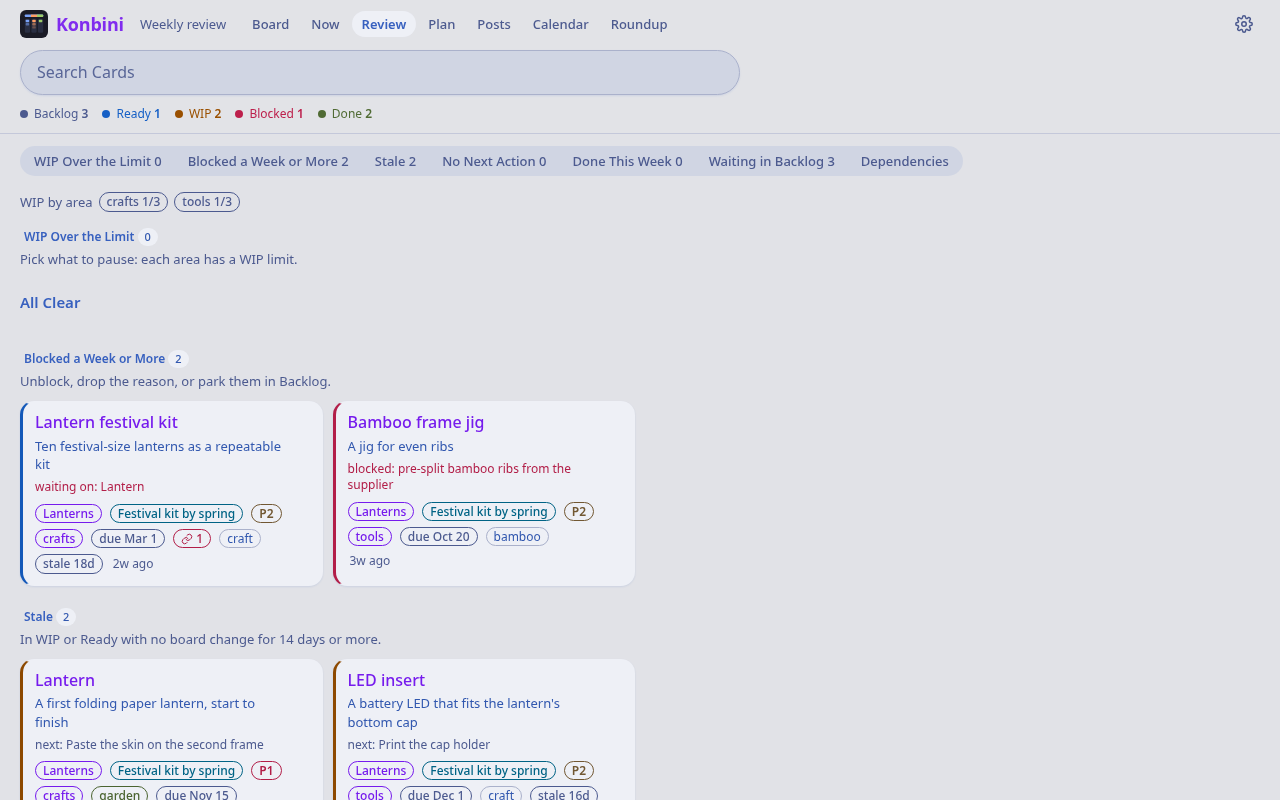
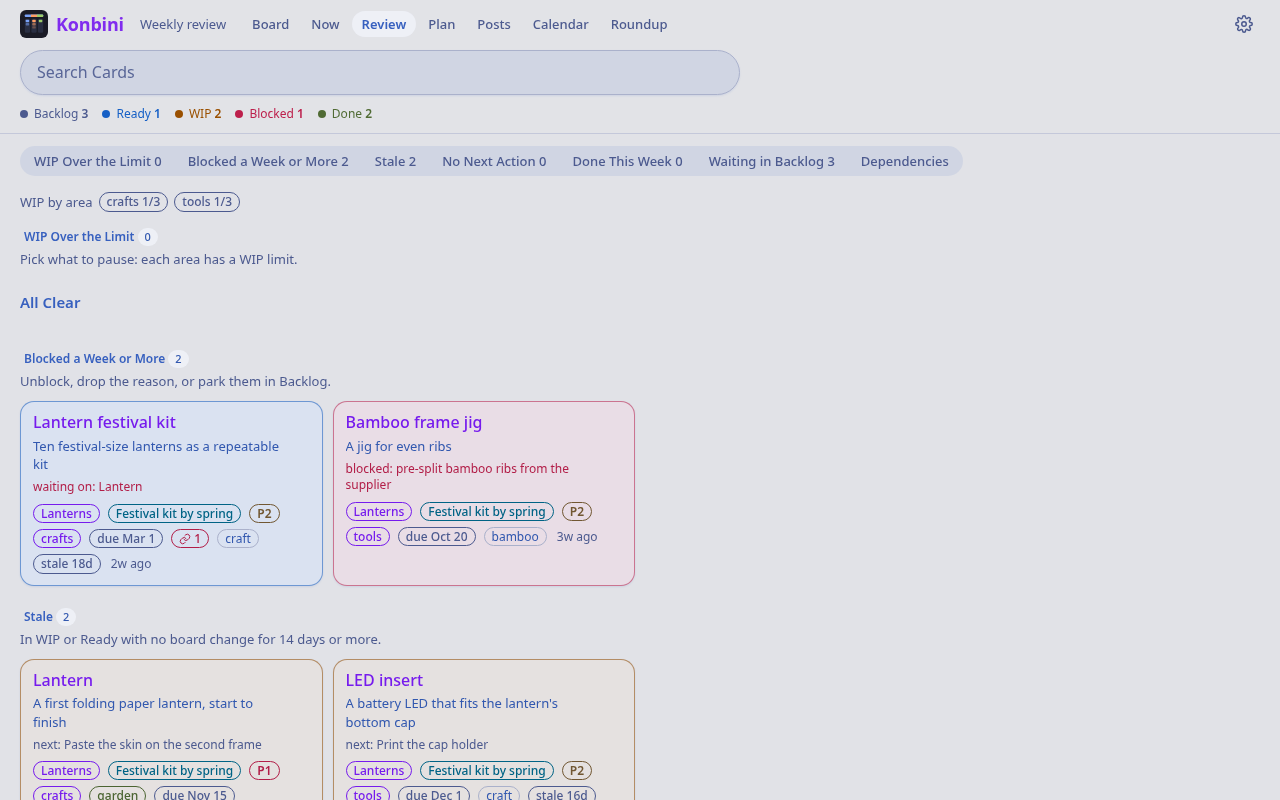
konbini 0.20.0: cards tinted by their column, Settings -> Card Style (Tint, Solid, Left Bar, None); vaultkit 0.27.5
README screenshots retaken in Tint.

diff --git a/app/vaultkit/ui/machiya.css b/app/vaultkit/ui/machiya.css
@@ -112,7 +112,7 @@ body.palette-nord.theme-night, body.palette-nord.theme-system, body.palette-nord
   --teal-panel: #8fbcbb; --magenta-panel: #c3a5bd; --cyan-panel: #88c0d0; --slate-panel: #9aa4b7;
   --blue-hover: #e6ecf3; --orange-hover: #f6e9e5; --red-hover: #f6e9ea; --yellow-hover: #f7e9ce; --green-hover: #e7eee1;
   --teal-hover: #e2eeed; --magenta-hover: #f1eaf0; --cyan-hover: #e0eef3; --slate-hover: #ebedf0;
-  --card: #333a47; --tint-mix: 6%; --tint-base: var(--card);
+  --card: #333a47; --tint-mix: 5%; --tint-base: var(--card);
   --shadow-1: 0 1px 2px rgba(0,0,0,.35); --shadow-2: 0 1px 2px rgba(0,0,0,.35), 0 6px 18px rgba(0,0,0,.25);
 }
 body.palette-nord.theme-day {
@@ -202,7 +202,7 @@ body.palette-catppuccin.theme-day {
   --teal-panel: #127377; --magenta-panel: #8737ef; --cyan-panel: #03709c; --slate-panel: #65687b;
   --blue-hover: #094cd2; --orange-hover: #9a3901; --red-hover: #aa0c2e; --yellow-hover: #7e5010; --green-hover: #29661b;
   --teal-hover: #106468; --magenta-hover: #6d12e3; --cyan-hover: #026085; --slate-hover: #585a6b;
-  --card: #f8f9fb; --tint-mix: 9%; --tint-base: var(--card);
+  --card: #f8f9fb; --tint-mix: 8%; --tint-base: var(--card);
   --shadow-1: 0 1px 2px rgba(76,79,105,.12); --shadow-2: 0 1px 2px rgba(76,79,105,.12), 0 6px 18px rgba(76,79,105,.12);
 }
 @media (prefers-color-scheme: light) {
@@ -215,7 +215,7 @@ body.palette-catppuccin.theme-day {
     --teal-panel: #127377; --magenta-panel: #8737ef; --cyan-panel: #03709c; --slate-panel: #65687b;
     --blue-hover: #094cd2; --orange-hover: #9a3901; --red-hover: #aa0c2e; --yellow-hover: #7e5010; --green-hover: #29661b;
     --teal-hover: #106468; --magenta-hover: #6d12e3; --cyan-hover: #026085; --slate-hover: #585a6b;
-    --card: #f8f9fb; --tint-mix: 9%; --tint-base: var(--card);
+    --card: #f8f9fb; --tint-mix: 8%; --tint-base: var(--card);
     --shadow-1: 0 1px 2px rgba(76,79,105,.12); --shadow-2: 0 1px 2px rgba(76,79,105,.12), 0 6px 18px rgba(76,79,105,.12);
   }
 }
@@ -307,7 +307,7 @@ body.palette-kanagawa.theme-night, body.palette-kanagawa.theme-system, body.pale
   --teal-panel: #7aa89f; --magenta-panel: #9d89bd; --cyan-panel: #7fb4ca; --slate-panel: #938aa9;
   --blue-hover: #adc0e6; --orange-hover: #ffab78; --red-hover: #f0adb5; --yellow-hover: #e6c384; --green-hover: #adc98a;
   --teal-hover: #a8c6c0; --magenta-hover: #c7bcda; --cyan-hover: #9ec6d7; --slate-hover: #c2bdcf;
-  --card: #23232e; --tint-mix: 5%; --tint-base: var(--card);
+  --card: #23232e; --tint-mix: 4%; --tint-base: var(--card);
   --shadow-1: 0 1px 2px rgba(0,0,0,.35); --shadow-2: 0 1px 2px rgba(0,0,0,.35), 0 6px 18px rgba(0,0,0,.25);
 }
 body.palette-kanagawa.theme-day {
@@ -358,7 +358,7 @@ body.palette-everforest.theme-day {
   --teal-panel: #267658; --magenta-panel: #bc288e; --cyan-panel: #2c6f94; --slate-panel: #606d60;
   --blue-hover: #266080; --orange-hover: #954307; --red-hover: #ac0a07; --yellow-hover: #785700; --green-hover: #556101;
   --teal-hover: #21674d; --magenta-hover: #9f2277; --cyan-hover: #266080; --slate-hover: #546054;
-  --card: #fffbef; --tint-mix: 9%; --tint-base: var(--card);
+  --card: #fffbef; --tint-mix: 8%; --tint-base: var(--card);
   --shadow-1: 0 1px 2px rgba(92,106,114,.12); --shadow-2: 0 1px 2px rgba(92,106,114,.12), 0 6px 18px rgba(92,106,114,.12);
 }
 @media (prefers-color-scheme: light) {
@@ -371,7 +371,7 @@ body.palette-everforest.theme-day {
     --teal-panel: #267658; --magenta-panel: #bc288e; --cyan-panel: #2c6f94; --slate-panel: #606d60;
     --blue-hover: #266080; --orange-hover: #954307; --red-hover: #ac0a07; --yellow-hover: #785700; --green-hover: #556101;
     --teal-hover: #21674d; --magenta-hover: #9f2277; --cyan-hover: #266080; --slate-hover: #546054;
-    --card: #fffbef; --tint-mix: 9%; --tint-base: var(--card);
+    --card: #fffbef; --tint-mix: 8%; --tint-base: var(--card);
     --shadow-1: 0 1px 2px rgba(92,106,114,.12); --shadow-2: 0 1px 2px rgba(92,106,114,.12), 0 6px 18px rgba(92,106,114,.12);
   }
 }
@@ -397,7 +397,7 @@ body.palette-ayu.theme-day {
   --teal-panel: #2b7960; --magenta-panel: #8954bd; --cyan-panel: #257692; --slate-panel: #6b6d71;
   --blue-hover: #136199; --orange-hover: #984304; --red-hover: #b21313; --yellow-hover: #84530a; --green-hover: #4d6600;
   --teal-hover: #256953; --magenta-hover: #7943af; --cyan-hover: #1f647b; --slate-hover: #5d5f63;
-  --card: #ffffff; --tint-mix: 9%; --tint-base: var(--card);
+  --card: #ffffff; --tint-mix: 7%; --tint-base: var(--card);
   --shadow-1: 0 1px 2px rgba(92,97,102,.12); --shadow-2: 0 1px 2px rgba(92,97,102,.12), 0 6px 18px rgba(92,97,102,.12);
 }
 @media (prefers-color-scheme: light) {
@@ -410,7 +410,7 @@ body.palette-ayu.theme-day {
     --teal-panel: #2b7960; --magenta-panel: #8954bd; --cyan-panel: #257692; --slate-panel: #6b6d71;
     --blue-hover: #136199; --orange-hover: #984304; --red-hover: #b21313; --yellow-hover: #84530a; --green-hover: #4d6600;
     --teal-hover: #256953; --magenta-hover: #7943af; --cyan-hover: #1f647b; --slate-hover: #5d5f63;
-    --card: #ffffff; --tint-mix: 9%; --tint-base: var(--card);
+    --card: #ffffff; --tint-mix: 7%; --tint-base: var(--card);
     --shadow-1: 0 1px 2px rgba(92,97,102,.12); --shadow-2: 0 1px 2px rgba(92,97,102,.12), 0 6px 18px rgba(92,97,102,.12);
   }
 }
@@ -620,6 +620,12 @@ a.chip.link:hover { box-shadow: inset 0 0 0 1px currentColor; text-decoration: n
    accents inside take their panel shades. Pair with .is-note / .is-card / .is-garden, or set --thing. ------------ */
 .tinted, .card.tinted { --tint: var(--thing, var(--room)); background: color-mix(in srgb, var(--tint) var(--tint-mix), var(--tint-base));
   border: 1px solid color-mix(in srgb, var(--tint) 55%, transparent); }
+/* Card Style (v0.27.5, as Shiori's Settings → Result Style): how a tinted card marks whose it is. An app that offers
+   the choice sets <body data-card-style="tint|solid|bar|none">; tint (no attribute) is the default. */
+[data-card-style="solid"] .tinted, [data-card-style="solid"] .card.tinted { background: var(--card); border-color: transparent; }
+[data-card-style="bar"] .tinted, [data-card-style="bar"] .card.tinted { background: var(--card); border-color: transparent;
+  box-shadow: inset 3px 0 0 var(--tint), var(--shadow-1); }
+[data-card-style="none"] .tinted, [data-card-style="none"] .card.tinted { background: transparent; border-color: transparent; box-shadow: none; }
 .kind { display: block; margin-bottom: 3px; color: var(--tint, var(--thing, var(--room))); font-size: var(--fs-xs);
   font-weight: 600; letter-spacing: .02em; }
 

diff --git a/app/static/board.css b/app/static/board.css
@@ -67,19 +67,21 @@ section.lane ~ section.lane .colhead { display: none; }
 .colempty { margin: 4px 2px; font-size: 13px; color: var(--muted); }
 
 /* ---- cards -------------------------------------------------------------- */
-/* Shiori's result card (machiya.css .card: a step above the page, 14px corners, the small shadow); the board's cards keep
-   their status stripe and the room for the actions button, and are dragged */
+/* Shiori's result card (machiya.css .card: a step above the page, 14px corners, the small shadow), tinted in its column's
+   colour (.tinted: a fill and an outline in --tint; Settings -> Card Style: Solid, Left Bar and None are machiya.css's
+   [data-card-style]); the board's cards keep the room for the actions button, and are dragged */
 .card {
-  position: relative; padding: 10px 34px 11px 12px; margin-bottom: 8px; border-left: 3px solid var(--comment); cursor: grab;
+  position: relative; padding: 10px 34px 11px 12px; margin-bottom: 8px; cursor: grab;
   transition: transform .12s ease, box-shadow .12s ease;
 }
 .card:hover { box-shadow: var(--shadow); transform: translateY(-1px); }
 @media (prefers-reduced-motion: reduce) { .card { transition: none; } .card:hover { transform: none; } }
 .card:last-child { margin-bottom: 0; }
-.card.col-ready { border-left-color: var(--blue); }
-.card.col-wip { border-left-color: var(--orange); }
-.card.col-blocked { border-left-color: var(--red); }
-.card.col-done { border-left-color: var(--green); }
+.card.tinted { --tint: var(--slate); }                    /* Backlog (and Archived) */
+.card.tinted.col-ready { --tint: var(--blue); }
+.card.tinted.col-wip { --tint: var(--orange); }
+.card.tinted.col-blocked { --tint: var(--red); }
+.card.tinted.col-done { --tint: var(--green); }
 /* cards wear Konbini's magenta wherever they appear (machiya.css: .is-card sets --thing); in the lanes, where five columns
    share the width, the title is a size down from the lists' 16px */
 .col .card .title { font-size: var(--fs-m); font-weight: 600; }

diff --git a/app/modern.py b/app/modern.py
@@ -168,9 +168,12 @@ def page(ctx, what, body, tabs=(), current="", foot=()):
     foot = extra [(href, label)] footer links for the page."""
     status = getattr(ctx, "status", None)
     head = (('<meta name="obsidian-vault" content="%s">\n' % e(OBSIDIAN_VAULT)) if OBSIDIAN_VAULT else "") + SIGNIN_META
-    return shell.page(ctx, ROOM, shell.title(ROOM, what), body + shell.footer(ROOM, status, list(foot)), tabs, current,
+    html = shell.page(ctx, ROOM, shell.title(ROOM, what), body + shell.footer(ROOM, status, list(foot)), tabs, current,
                       head=head, stylesheets=[static_url("board.css")], scripts=[static_url("outbox.js"), static_url("board.js")], icons=ICON,
                       prefs_url=getattr(ctx, "prefs_url", ""), who=getattr(ctx, "who", ""))
+    style = setting(ctx, "cardStyle")
+    # Card Style (vaultkit 0.27.5): <body data-card-style="solid|bar|none">; no attribute is the default, Tint
+    return html.replace("<body ", '<body data-card-style="%s" ' % style, 1) if style and style != "tint" else html
 
 
 def header(ctx, brand, brand_href, links, current, subtitle="", tools="", stats="", cls=""):
@@ -296,7 +299,7 @@ def card_html(ctx, card, claim=None, show_area=False, show_updated=False, why=()
     # the sheet's links to the sister rooms, only where the card page has them: Niwa for a published note, Kura
     links = "".join(' data-%s="%s"' % (k, e(v)) for k, v in (("garden", garden_url(card, note)), ("kura", kura_url(note))) if v)
     # data-board, -next and -priority: what the page showed, which a change made offline is based on (board.js, outbox.js)
-    return ('<article class="card is-card col-%s" id="c-%s" data-slug="%s" data-board="%s" data-title="%s" data-next="%s" '
+    return ('<article class="card tinted is-card col-%s" id="c-%s" data-slug="%s" data-board="%s" data-title="%s" data-next="%s" '
             'data-priority="%s" data-note="%s"%s>%s'
             '<button class="more" type="button" aria-label="Actions for %s">&#8943;</button>%s</article>'
             % (e(card["board"] or ""), e(card["slug"]), e(card["slug"]), e(card["board"] or ""), e(card["title"]),
@@ -703,14 +706,17 @@ def search_page(ctx, cards, q, claims=None):
                 KANBAN_TABS, "")
 
 
+CARD_STYLES = [("tint", "Tint"), ("solid", "Solid"), ("bar", "Left Bar"), ("none", "None")]      # Shiori's names and order
 BOARD_SETTINGS = [("group", "Group By", [("area", "Area"), ("stream", "Stream (Project)"), ("family", "Family")], "area"),
-                  ("doneCards", "Done Cards", [("5", "5"), ("10", "10"), ("all", "All")], "all")]
+                  ("doneCards", "Done Cards", [("5", "5"), ("10", "10"), ("all", "All")], "all"),
+                  ("cardStyle", "Card Style", CARD_STYLES, "tint")]
 
 
-# Konbini's own settings follow the signed-in person (docs/contracts/prefs.md): the account keeps them as konbini.group
-# and konbini.done_cards; the cookie is the first-render path (the board reads both when it draws the swimlanes)
+# Konbini's own settings follow the signed-in person (docs/contracts/prefs.md): the account keeps them as konbini.group,
+# konbini.done_cards and konbini.card_style; the cookie is the first-render path (the board reads them when it draws)
 shell.APP_PREFS = {"group": {"type": "choice", "values": ["area", "stream", "family"], "cookie": True},
-                   "doneCards": {"type": "choice", "values": ["5", "10", "all"], "cookie": True}}
+                   "doneCards": {"type": "choice", "values": ["5", "10", "all"], "cookie": True},
+                   "cardStyle": {"type": "choice", "values": [v for v, _ in CARD_STYLES], "cookie": True}}
 
 
 def setting(ctx, key):
@@ -744,7 +750,7 @@ def settings(ctx, cards, version, vaultkit, status_text, account="", session=Fal
     About."""
     board = ("Board", [shell.select(label, key, choices, setting(ctx, key), cookie=True)
                        for key, label, choices, _ in BOARD_SETTINGS] + [shell.offline_row()],
-             "Group By and Done Cards follow you to your other devices when signed in. "
+             "Group By, Done Cards and Card Style follow you to your other devices when signed in. "
              "Offline Copies stay on this device.")
     body = shell.settings_page([shell.shared_section(ctx, ROOM, shell.rooms(), state, account), board,
                                 account_section(account, session), shell.about_section(ROOM, version, status_text, vaultkit)],

diff --git a/tests/test_pages.py b/tests/test_pages.py
@@ -143,6 +143,20 @@ try:
     assert st == 200 and "be reached. Pages you&#x27;ve opened before still work" in body and 'class="tabbar"' in body
     assert 'class="status' not in body and 'type="search"' not in body and "Tailscale" not in body, body[-800:]
 
+    # -- Card Style: cards are tinted by their column; the setting is a row in Settings and a <body> attribute ------------
+    st, h, board = call(port, "GET", "/")
+    assert 'class="card tinted is-card col-' in board and "data-card-style" not in board
+    st, h, sett = call(port, "GET", "/settings")
+    assert '<span>Card Style</span>' in sett and 'data-set="cardStyle"' in sett, sett[:200]
+    assert [m for m in re.findall(r'<option value="(tint|solid|bar|none)"', sett)] == ["tint", "solid", "bar", "none"]
+    assert "Left Bar" in sett and '<option value="tint" selected>Tint</option>' in sett
+    for style in ("solid", "bar", "none"):
+        st, h, styled = call(port, "GET", "/", headers={"Cookie": "cardStyle=" + style})
+        assert '<body data-card-style="%s" class="' % style in styled, (style, styled[styled.index("<body"):][:120])
+        assert 'selected>' in call(port, "GET", "/settings", headers={"Cookie": "cardStyle=" + style})[2]
+    assert "data-card-style" not in call(port, "GET", "/", headers={"Cookie": "cardStyle=tint"})[2]
+    assert "data-card-style" not in call(port, "GET", "/", headers={"Cookie": "cardStyle=nonsense"})[2]
+
     # -- gzip: text answers over 1 KB are compressed for a client that asks, the same bytes once unpacked ---------------
     import gzip, http.client
     def raw_get(path, enc):

diff --git a/tests/test_contrast.py b/tests/test_contrast.py
@@ -70,6 +70,21 @@ try:
                                 failures.append("%s %s sheet: %s %.2f < %g" % (palette, theme, what, got, need))
                             page.keyboard.press("Escape")
                     ctx.close()
+                # Card Style (Settings): the board's cards are tinted by default; the other styles draw them on other surfaces
+                ctx = br.new_context(viewport={"width": 1280, "height": 900}, color_scheme=scheme, service_workers="block")
+                ctx.route("**/api/prefs", lambda route: route.abort())
+                page = ctx.new_page()
+                for style in ("solid", "bar", "none"):
+                    ctx.clear_cookies()
+                    ctx.add_cookies([{"name": n, "value": v, "url": BASE} for n, v in
+                                     (("theme", theme), ("palette", palette), ("cardStyle", style))])
+                    for path in ("/", "/now", "/review", "/p/lantern"):
+                        page.goto(BASE + path)
+                        page.wait_for_timeout(150)
+                        assert page.evaluate("document.body.dataset.cardStyle") == style, (path, style)
+                        for what, got, need in page.evaluate(AUDIT):
+                            failures.append("%s %s card style %s %s: %s %.2f < %g" % (palette, theme, style, path, what, got, need))
+                ctx.close()
         br.close()
     if failures:
         print("\n".join(sorted(set(failures))))

diff --git a/tests/test_hister_signin.py b/tests/test_hister_signin.py
@@ -246,7 +246,7 @@ try:
     page_html = body.decode()
     assert 'class="theme-night palette-nord' in page_html and 'data-text="large"' in page_html, page_html[page_html.index("<body"):][:200]
     # the own settings that follow the person are declared for machiya.js (account keys konbini.group, konbini.done_cards)
-    assert 'name="machiya-app-prefs"' in page_html and "konbini.done_cards" in page_html and "konbini.group" in page_html
+    assert 'name="machiya-app-prefs"' in page_html and "konbini.done_cards" in page_html and "konbini.group" in page_html and "konbini.card_style" in page_html
     # /settings (vaultkit 0.23's order): Appearance (kept in the account), the board's own (with Offline Copies, this
     # device's only row), Account, About; no This Device section
     status, r, body = get(port, "/settings", dict(HTML, **SID))

diff --git a/app/vaultkit/palettes.py b/app/vaultkit/palettes.py
@@ -178,8 +178,9 @@ def variant(key, mode):
 # Tinted items (Shiori's design language, docs/style-guide.md, v0.26): something that's yours wears its room's colour, a
 # fill of that colour mixed into the card at --tint-mix with an outline in it. The mix is the most each variant allows
 # with every text a card draws (menu-fg, menu-muted, each accent's panel shade) still at its minimum, under every room
-# colour; Shiori found 9% (Tokyo Night) and 8% (Day) the same way. Never more than TINT_MAX.
-TINTS = ("blue", "orange", "magenta", "green", "teal")
+# colour; Shiori found 9% (Tokyo Night) and 8% (Day) the same way. Never more than TINT_MAX. Since v0.27.5 every accent
+# can tint (Konbini tints its cards by status: slate, blue, orange, red, green), which costs a point or two in a few themes.
+TINTS = ACCENTS
 TINT_MAX = 9
 
 

diff --git a/app/vaultkit/__init__.py b/app/vaultkit/__init__.py
@@ -13,4 +13,4 @@ from .vault import CALLOUT_RE, EMBED_RE, HIDDEN, IMAGE_EXT, MDIMG_RE, Vault     
 from .frontmatter import EditError, edit_front, merge_note, version_of, yaml_scalar   # noqa: F401
 from .gitsync import GitSync                                                          # noqa: F401
 
-__version__ = "0.27.4"
+__version__ = "0.27.5"

diff --git a/app/version.py b/app/version.py
@@ -1,4 +1,4 @@
 # SPDX-License-Identifier: AGPL-3.0-or-later
 # Copyright (C) 2026 Micheal Waltz and Machiya contributors
 """Konbini's release version (SemVer). Bump it with a CHANGELOG.md section and a git tag vX.Y.Z for every release."""
-VERSION = "0.19.1"
+VERSION = "0.20.0"

diff --git a/CLAUDE.md b/CLAUDE.md
@@ -128,10 +128,13 @@ the workflow.
   phone's column tabs) is `modern.pills()` / `pill()`, outlined pills with the current one filled (`.pills.coltabs`, which
   `board.js` fills with `.on`). A state chip is `.chip` with `--chip` set in `board.css` (outlined, no fill: a fill of its
   own colour fails 4.5:1), a chip that opens something is `.chip.link`, a topic is `.tag`. A board card is the shared
-  `.card` (a step above the page, 14px corners) with the status stripe on its left edge, its parts `.title`, `.snippet` and
-  `.meta`; Now, Review and Search lay them out in `.cards`. Headings are Title Case as written, lanes and columns too
-  (`.lanename` is capitalised: it is a tag's name). Nothing is tinted: every list here is Konbini's own cards, and a card's
-  colour is the status stripe; a mixed list would tint the other rooms' items (`.tinted.is-note`). The browser-tab icon is
+  `.card.tinted` (a step above the page, 14px corners) tinted in its column's colour (`--tint` set per `.col-*` in
+  `board.css`: Backlog slate, Ready blue, WIP orange, Blocked red, Done green), its parts `.title`, `.snippet` and `.meta`;
+  Now, Review and Search lay them out in `.cards`. Settings → Card Style (Tint, Solid, Left Bar, None; the `cardStyle`
+  cookie and account key `konbini.card_style`) sets `<body data-card-style>` in `modern.page()` (no attribute is Tint), and
+  machiya.css draws the four styles; `tests/test_contrast.py` measures the card texts in all of them. Headings are Title Case as written, lanes and columns too
+  (`.lanename` is capitalised: it is a tag's name). A mixed list would tint the other rooms' items by their room (`.tinted.is-note`); here every
+  card is Konbini's own, so the tint is the card's status. The browser-tab icon is
   `static/icons/konbini-small.svg` (a 16 px grid) and `konbini.ico` (16/32/48 from it); `tests/test_pages.py` checks the files,
   `/favicon.ico` and that the header mark is `konbini.svg`.
 - **Speed** (`tests/test_perf.py`): a note is read and parsed once per change of the file (`Store.load`, keyed by mtime, size

diff --git a/app/CHANGELOG.md b/app/CHANGELOG.md
@@ -3,6 +3,12 @@
 Konbini follows [SemVer](https://semver.org). Before 1.0, a new feature, a changed default or setting, or a changed
 API field is a minor bump; a fix, wording or internal change is a patch.
 
+## 0.20.0
+
+- **Cards are tinted by their column** instead of carrying a stripe: a fill and an outline in the status colour (Backlog slate, Ready blue, WIP orange, Blocked red, Done green). The column headings keep their colour.
+- **Settings → Card Style:** Tint (the default), Solid, Left Bar (the old stripe) and None, as Shiori's Result Style. It follows you to your other devices when signed in.
+- vaultkit 0.27.5: every accent can tint; the tint is mixed so that every text on it stays readable.
+
 ## 0.19.1
 
 - A pill under the pointer fills with 24% of its colour, its text and outline in a darker shade of it that stays readable on that fill in every theme (vaultkit 0.27.4).
